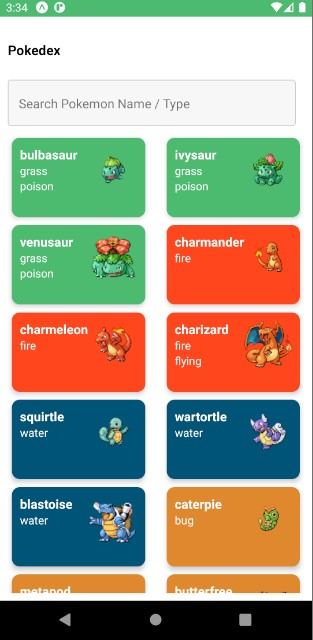
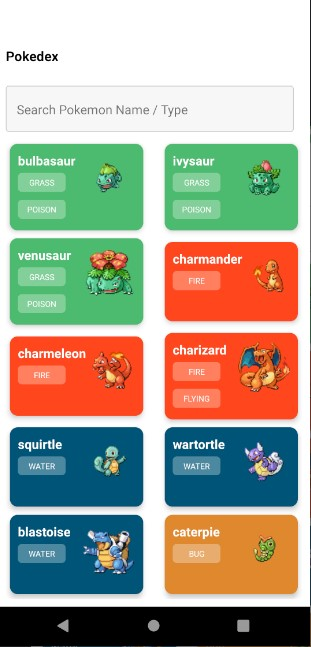
ls

diff --git a/Screen/MainScreen.js b/Screen/MainScreen.js
@@ -1,7 +1,7 @@
 import React, { useState, useEffect } from 'react';
 import { View, Text, Button, Image, ScrollView, ActivityIndicator, TouchableOpacity,StatusBar, SafeAreaView, Dimensions, Platform } from 'react-native';
 import { useDispatch, useSelector } from "react-redux";
-import { GetProductList, AddOrder, ResetOrderList } from '../Redux/actions/GetProductList';
+import { getPokemonList, AddOrder, ResetOrderList } from '../Redux/actions/GetPokemon';
 import ModaFullCustom from './Modal';
 import styles from '../Global/styles';
 import CustomColors from '../Global/Color'
@@ -24,9 +24,9 @@ export default function MainScreen() {
   const [SelectedMenuDetail, setSelectedMenuDetail]=useState('about')
 
   const {
-    getProductResult,
-    getProductLoading,
-    getProductError,
+    getPokemonResult,
+    getPokemonLoading,
+    getPokemonError,
     scrollLoading
   } = useSelector((state) => state.OrderReducer)
 
@@ -39,7 +39,7 @@ export default function MainScreen() {
   const dispatch = useDispatch()
 
   useEffect(() => {
-    dispatch(GetProductList(Limit, Offeset))
+    dispatch(getPokemonList(Limit, Offeset))
   }, [])
 
   const ColorList = [
@@ -80,15 +80,16 @@ export default function MainScreen() {
   ]
 
   useEffect(() => {
-    // console.log(getProductResult)
-    if(getProductResult){
-      setSearchedList(getProductResult)
-      setOffeset(getProductResult.length)
+    // console.log(getPokemonResult)
+    if(getPokemonResult){
+      setSearchedList(getPokemonResult)
+      setOffeset(getPokemonResult.length)
     }
-  }, [getProductResult])
+  }, [getPokemonResult])
 
-  function RenderListCake() {
-    return (
+  function RenderListPokemon() {
+    if(SearchedList[0]){
+      return (
       SearchedList.map((data, idx) => {
         // console.log(data)
         return (
@@ -105,25 +106,32 @@ export default function MainScreen() {
             <Text style={styles.PokeName}>{data.name}</Text>
             {data.types.map((type, idxtype) => {
               return (
-                <View key={idxtype}>
-                  <Text style={styles.PokeDetail}>{type.type.name}</Text>
-                </View>
+                <View key={idxtype} style={{ backgroundColor: 'rgba(255, 255, 255, 0.3)', marginVertical: 5, width: 60, alignItems: 'center', borderRadius: 5, padding: 5 }} >
+                <Text style={[styles.PokeDetail,{fontSize:10}]}>{type.type.name.toUpperCase()}</Text>
+              </View>
               )
             })}
             </View>
             
         <Image
-          style={{width: 60, height: 60}}
+          style={{width: 65, height: 65, resizeMode:"contain"}}
           source={{uri: data.image}} />
           </TouchableOpacity>
         )
       })
     )
+  } else{
+    return(
+      <View style={{alignItems:'center', alignSelf:'center', width:'100%', marginTop:20}}>
+        <Text>No Result</Text>
+      </View>
+    )
+  }
   }
 
   async function GetMorePokemon() {
     console.log('GetMorePokemon')
-    dispatch(GetProductList(Limit, Offeset, getProductResult))
+    dispatch(getPokemonList(Limit, Offeset, getPokemonResult))
   }
 
   function RenderDetailPokemon() {
@@ -268,7 +276,7 @@ export default function MainScreen() {
  async function SearchFunction(text) {
     if (text) {
       setisSearching(true)
-        const newData = getProductResult.filter(
+        const newData = getPokemonResult.filter(
             function (item) {
               const itemDataName = item.name? item.name.toUpperCase(): ''.toUpperCase();
               const itemDataType = item.types[0].type.name? item.types[0].type.name.toUpperCase(): ''.toUpperCase();
@@ -281,7 +289,7 @@ export default function MainScreen() {
             setSearchValue(text)
     } else {
       setisSearching(false)
-        setSearchedList(getProductResult)
+        setSearchedList(getPokemonResult)
         setSearchValue(text)
     }
 }
@@ -318,9 +326,9 @@ export default function MainScreen() {
           }
         }}>
           <View >
-            {getProductLoading ? <ActivityIndicator /> :
+            {getPokemonLoading ? <ActivityIndicator /> :
               <View style={styles.ContainListCardBox}>
-                {RenderListCake()}
+                {RenderListPokemon()}
               </View>}
 
             {scrollLoading ? <ActivityIndicator style={{ margin: 20 }} /> : null}
@@ -330,7 +338,6 @@ export default function MainScreen() {
         <ModaFullCustom
           isVisible={isModalDetail}
           title={'Pokedex Detail'}
-          subtitle={'This is the detail of each cake'}
           body={RenderDetailPokemon()}
           closeModal={() => {
             setisModalDetail(false)

diff --git a/Redux/actions/GetPokemon.js b/Redux/actions/GetPokemon.js
@@ -1,12 +1,10 @@
 
 import { GetPokemonList, GetPokemonDetail } from "../../api_config"
-export const GET_PRODUCT_LIST = "GET_PRODUCT_LIST"
-export const GET_ORDER_LIST = "GET_ORDER_LIST"
-export const RESET_ORDER_LIST = "RESET_ORDER_LIST"
+export const GET_POKEMON_LIST = "GET_POKEMON_LIST"
 export const SCROLL_LOADING_STATUS = "SCROLL_LOADING_STATUS"
 
 
-export const GetProductList = (limit,CurrentLimit, CurrentData) => {
+export const getPokemonList = (limit,CurrentLimit, CurrentData) => {
     return async (dispatch) => {
         
         if (CurrentLimit == 0) {
@@ -20,7 +18,7 @@ export const GetProductList = (limit,CurrentLimit, CurrentData) => {
                 PokemonList[i].image = EachPokemonDetail.sprites.versions["generation-iii"]["emerald"].front_default
             }
             await    dispatch({
-                type: GET_PRODUCT_LIST,
+                type: GET_POKEMON_LIST,
                 payload: {
                     loading: false,
                     data: PokemonList,
@@ -46,7 +44,7 @@ export const GetProductList = (limit,CurrentLimit, CurrentData) => {
             }
             const newPokemonList = [...CurrentData, ...PokemonList]
             await dispatch({
-                type: GET_PRODUCT_LIST,
+                type: GET_POKEMON_LIST,
                 payload: {
                     loading: false,
                     data: newPokemonList,
@@ -57,20 +55,6 @@ export const GetProductList = (limit,CurrentLimit, CurrentData) => {
         }
             //loading
    
-    }
-}
-
-export const AddOrder = (data) => {
-    return (dispatch) => {
-        // data[0] == Data Product && data[1] == Data New Order
-        dispatch({
-            type: GET_ORDER_LIST,
-            payload: {
-                loading: false,
-                data: data,
-                errorMessage: false
-            }
-        }) 
     }
 }
 

diff --git a/Redux/reducers/Order/index.js b/Redux/reducers/Order/index.js
@@ -1,18 +1,18 @@
-import { GET_ORDER_LIST, GET_PRODUCT_LIST, RESET_ORDER_LIST, SCROLL_LOADING_STATUS } from "../../actions/GetProductList";
+import {GET_POKEMON_LIST, SCROLL_LOADING_STATUS } from "../../actions/GetPokemon";
 const initialState = {
-    getProductResult: false,
-    getProductLoading: true,
-    getProductError: false,
+    getPokemonResult: false,
+    getPokemonLoading: true,
+    getPokemonError: false,
     scrollLoading: false
 }
 const OrderList = (state = initialState, action) => {
     switch (action.type) {
-        case GET_PRODUCT_LIST:
+        case GET_POKEMON_LIST:
             return {
                 ...state,
-                getProductResult: action.payload.data,
-                getProductLoading: action.payload.loading,
-                getProductError: action.payload.errorMessage,
+                getPokemonResult: action.payload.data,
+                getPokemonLoading: action.payload.loading,
+                getPokemonError: action.payload.errorMessage,
                 scrollLoading:action.payload.scrollloading
             }
         case SCROLL_LOADING_STATUS:
